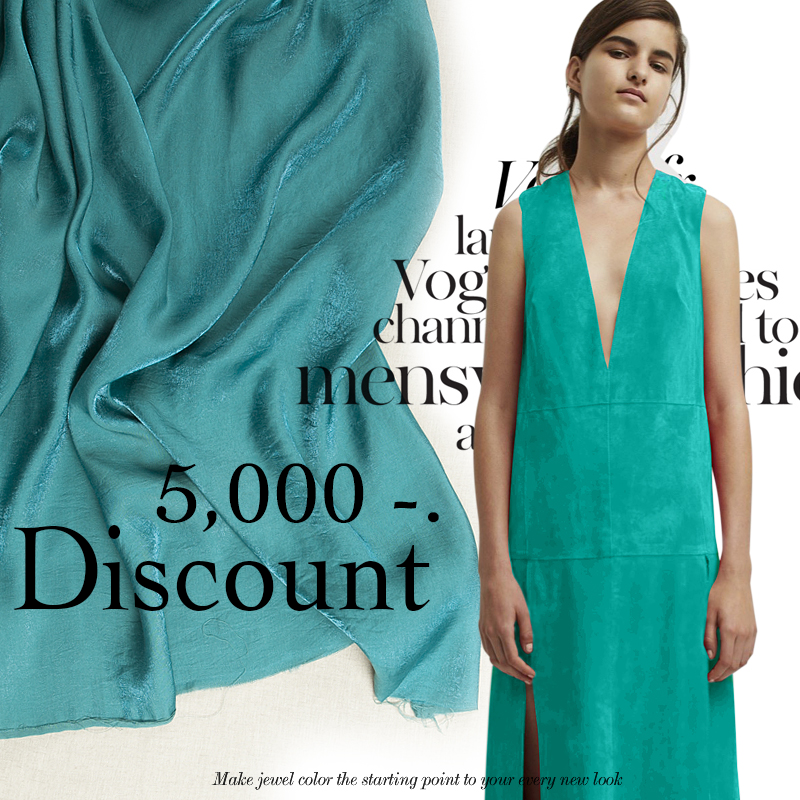
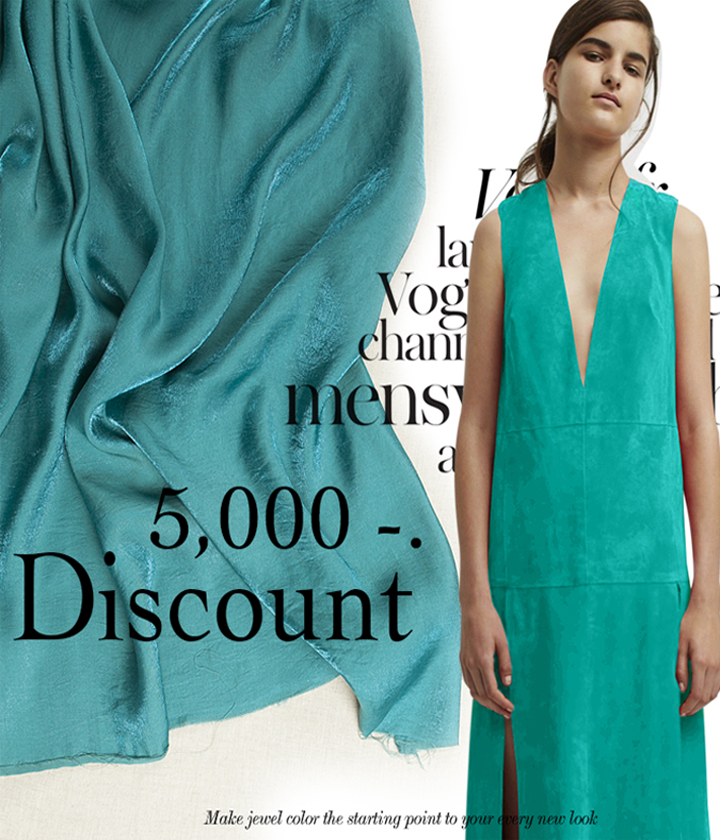
edit style

diff --git a/src/pages/Highlight.js b/src/pages/Highlight.js
@@ -10,7 +10,7 @@ class Highlight extends Component {
                     <img className="hl-center" src={ require('../img/icon/Promo.png') } alt="logo"/>
                     <a className="hl-btn" href="/home" role="button">Home</a>
                 </div>
-                <div className="col-lg-6">
+                <div id="img-hi" className="col-lg-6">
                     <div id="carouselExampleIndicators" className="carousel slide" data-ride="carousel">
                         <ol className="carousel-indicators">
                             <li data-target="#carouselExampleIndicators" data-slide-to="0" className="active"></li>

diff --git a/src/CSS/Navbar.css b/src/CSS/Navbar.css
@@ -11,7 +11,7 @@
 
 .nb-btn{
     text-align: center;
-    padding: 4%;
+    padding: 4.25%;
     background: #ffffff;
     color: #000000;
     border-radius: 0;
@@ -20,7 +20,7 @@
     text-decoration: none;
     text-transform: uppercase;
     width: 100%;
-    height: 300px;
+    height: 300%;
     font-size: 20px;
    
 }
@@ -30,7 +30,7 @@
     text-decoration: none;
     color: white;
     width: 100%;
-    padding-bottom: 6.75%;
+    padding-bottom: 6.70%;
     padding-top: 6.5%;
  
 }

diff --git a/src/CSS/Usercart.css b/src/CSS/Usercart.css
@@ -15,14 +15,14 @@ a:link {
 .scrollit
 {
     overflow:scroll;
-    height:100px;
+    height:100%;
     width: 80%;
     float: right;
     border-collapse: collapse;
     
 }
 tbody {
-    height: 100px;       
+    height: 80%;       
     overflow-y: auto;    
     overflow-x: hidden; 
     
@@ -32,7 +32,8 @@ tbody {
 .cart-table {
     float: right;
     border-collapse: collapse;
-    width: 80%;
+    width: 95%;
+    
     border: 2px solid black;
     font-size: 20px ;
     

diff --git a/src/pages/Material.js b/src/pages/Material.js
@@ -32,7 +32,7 @@ class Material extends Component {
                     <div className="col-md-3 push-md-9 ">
                         <LeftTabFilter />
                     </div>
-                    <div className="col-md-9 push-md-3">
+                    <div id="prod" className="col-md-9 push-md-3">
                         <ProdCard type="mat"/>
                     </div>
                 </div>

diff --git a/src/CSS/Lefttab.css b/src/CSS/Lefttab.css
@@ -48,10 +48,10 @@
 
  
  #line_icon {
-    width: 86px;
+    width: 35%;
     height: 20px;
     margin-right: 10px;
-    margin-left: 10px;
+    margin-left: 2%;
 
 
  }
@@ -60,6 +60,7 @@
     margin-left: 8px ;
     margin-bottom : -8px;
     margin-top: 12px; 
+    font-size: 20px;
 }
  
 .login-layout {

diff --git a/src/CSS/Highlight.css b/src/CSS/Highlight.css
@@ -50,7 +50,10 @@
     padding: 0px;
 }
 
+#img-hi {
+    height: 200%;
+}
 .hl-img {
     width: 100%;
-    height: 100%;
+    height: 200%;
 }

diff --git a/src/CSS/Card.css b/src/CSS/Card.css
@@ -12,7 +12,7 @@
 }
 
 #procon {
-    margin-top: 40px;
+    margin-top: 1%;
 }
 
 .imgproduct {
@@ -28,3 +28,4 @@
     color: white;
 
 }
+
